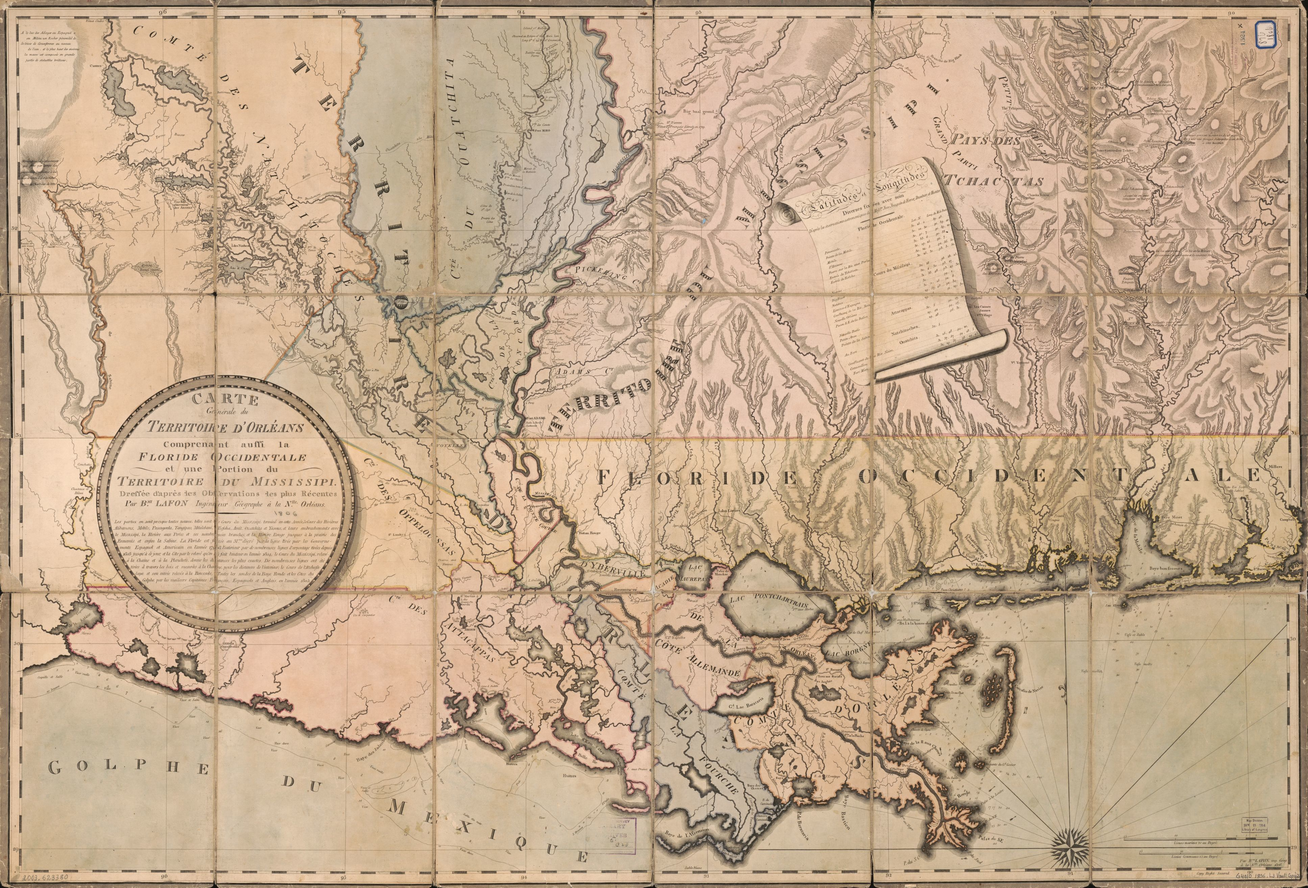
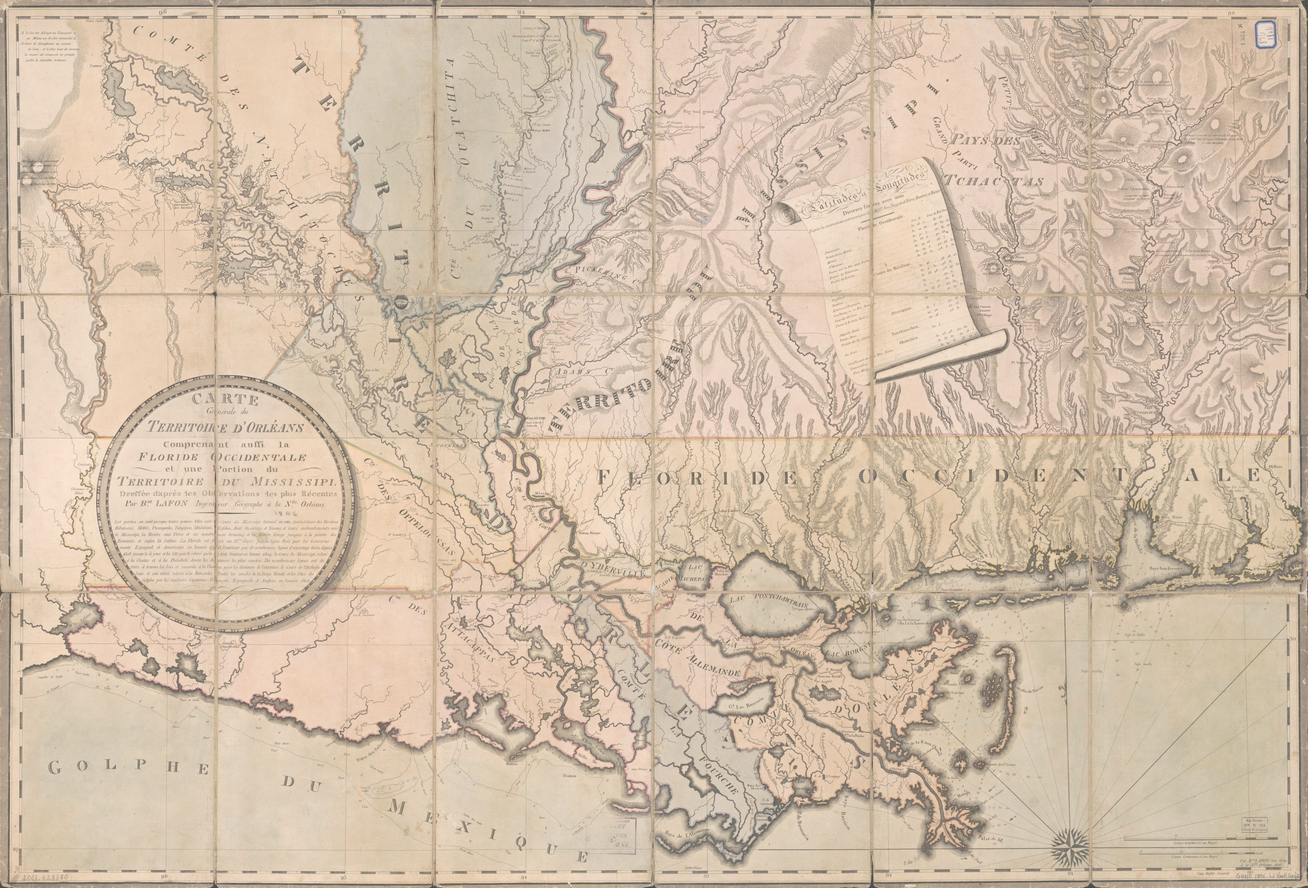
try 75% transparency on background image

diff --git a/_sections/intro.html b/_sections/intro.html
@@ -12,7 +12,3 @@ order: 1
 </header>
 
 The map you see here is the <em>Carte générale du territoire d'Orléans comprenant aussi la Floride Occidentale et une portion du territoire du Mississippi</em> by Barthélémy Lafon in 1806. This copy is held at the Library of Congress, Geography and Map Division, and can be viewed or downloaded from the <a href="https://lccn.loc.gov/2003623380"target="_blank">Library of Congress website</a>.
-
-<footer>
-  <a href="#portfolio" class="button scrolly">Current Projects</a>
-</footer>
